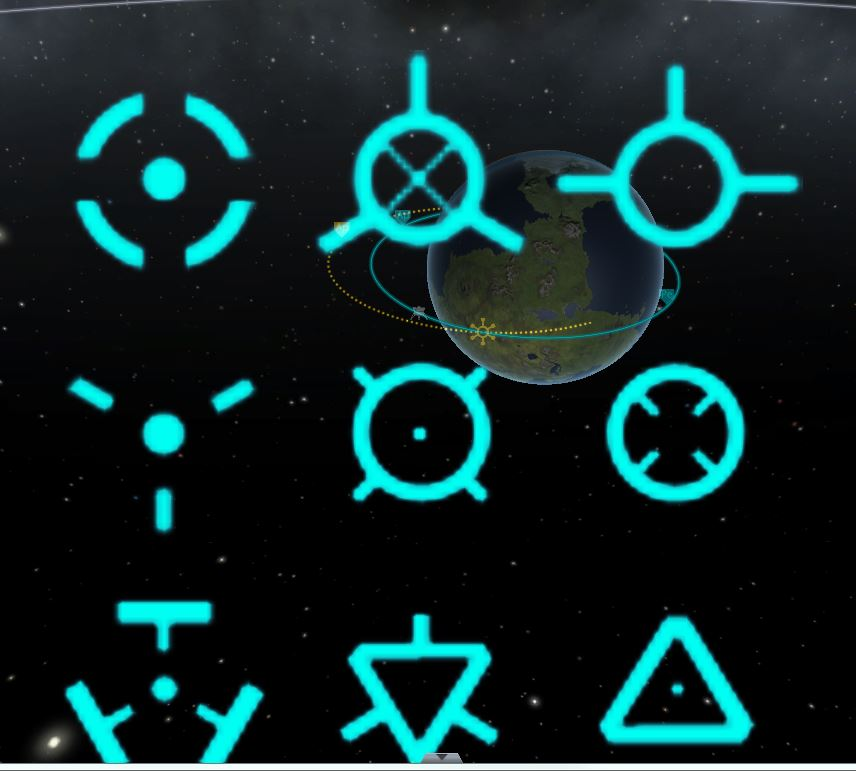
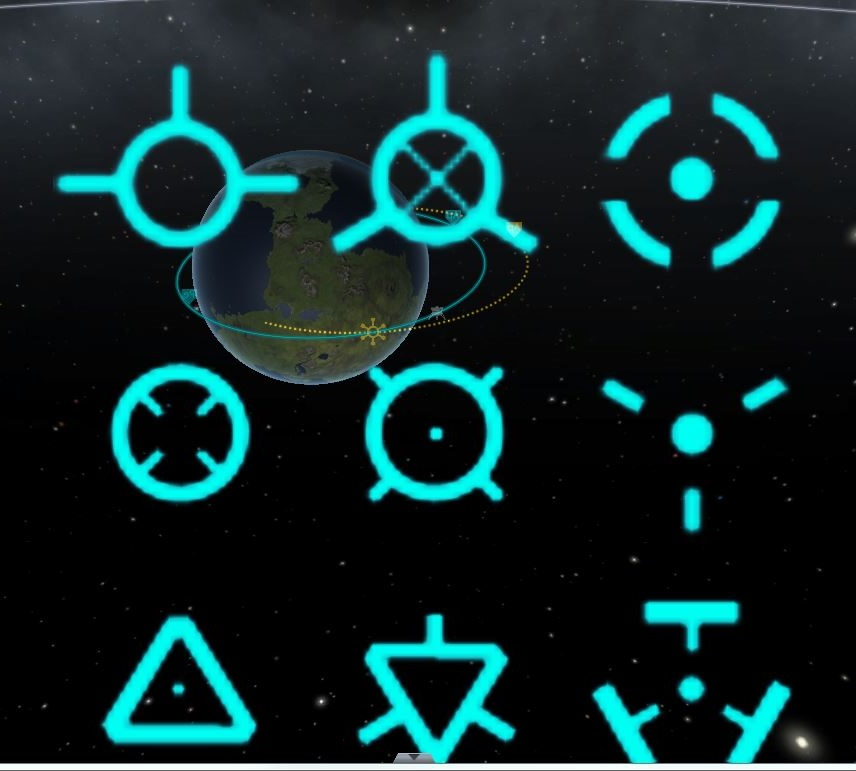
Maneuver ghost implemented

diff --git a/EnhancedNavBall/EnhancedNavBallBehaviour.cs b/EnhancedNavBall/EnhancedNavBallBehaviour.cs
@@ -20,9 +20,10 @@ public class EnhancedNavBallBehaviour : MonoBehaviour
     private GameObject _radialMinus;
     private GameObject _radialPlus;
     private GameObject _antiManeuverNode;
-    private GameObject _maneuverGhost;
-    
+    private GameObject _ghostManeuver;
+
     private static readonly Color _radialColour = new Color(0, 1, 0.958f);
+    private static readonly Color _maneuverColour = new Color(0, 0.1137f, 1, 0.5f);
     private static readonly Color _normalColour = new Color(0.930f, 0, 1);
 
     private CalculationStore _calculationStore;
@@ -66,7 +67,8 @@ public class EnhancedNavBallBehaviour : MonoBehaviour
     {
         GameObject simplePlane = Utilities.CreateSimplePlane("Test Plane", 0.5f);
 
-        SetupObjectPosition(simplePlane);
+        SetupObjectPosition(simplePlane,
+            _vectorsPivotTransform);
         simplePlane.transform.localPosition = new Vector3(0, 0.25f, 0);
 
         simplePlane.renderer.sharedMaterial = new Material(_maneuverGizmoTexture);
@@ -111,9 +113,15 @@ public class EnhancedNavBallBehaviour : MonoBehaviour
         _ghostPivotTransform.parent = _vectorsPivotTransform;
         _ghostPivotTransform.localPosition = new Vector3(0, 0, 0.01f);
 
-        _maneuverGhost = Utilities.CreateSimplePlane(
+        _ghostManeuver = Utilities.CreateSimplePlane(
             "maneuverGhost",
             _vectorSize);
+        
+        SetupObject(
+            _ghostManeuver,
+            new Vector2(_graphicOffset * 2, 0f),
+            _maneuverColour,
+            _ghostPivotTransform);
     }
 
     private void CreateManueverPlane()
@@ -125,7 +133,8 @@ public class EnhancedNavBallBehaviour : MonoBehaviour
         SetupObject(
             _antiManeuverNode,
             new Vector2(_graphicOffset, _graphicOffset * 2),
-            _radialColour);
+            _radialColour,
+            _vectorsPivotTransform);
     }
 
     private void BuildEnhancedNavBall()
@@ -154,30 +163,37 @@ public class EnhancedNavBallBehaviour : MonoBehaviour
         SetupObject(
             _normalPlus,
             new Vector2(0.0f, 0.0f),
-            _normalColour);
+            _normalColour,
+            _vectorsPivotTransform);
 
         SetupObject(
             _normalMinus,
             new Vector2(_graphicOffset, 0.0f),
-            _normalColour);
+            _normalColour,
+            _vectorsPivotTransform);
 
         SetupObject(
             _radialPlus,
             new Vector2(_graphicOffset, _graphicOffset),
-            _radialColour);
+            _radialColour,
+            _vectorsPivotTransform);
 
         SetupObject(
             _radialMinus,
             new Vector2(0.0f, _graphicOffset),
-            _radialColour);
+            _radialColour,
+            _vectorsPivotTransform);
     }
 
     private void SetupObject(
         GameObject planeObject,
         Vector2 textureOffset,
-        Color color)
+        Color color,
+        Transform parentTransform)
     {
-        SetupObjectPosition(planeObject);
+        SetupObjectPosition(
+            planeObject,
+            parentTransform);
 
         planeObject.renderer.sharedMaterial = new Material(_maneuverGizmoTexture);
         planeObject.renderer.sharedMaterial.mainTextureScale = _mainTextureScale;
@@ -185,10 +201,12 @@ public class EnhancedNavBallBehaviour : MonoBehaviour
         planeObject.renderer.sharedMaterial.color = color;
     }
 
-    private void SetupObjectPosition(GameObject planeObject)
+    private void SetupObjectPosition(
+        GameObject planeObject,
+        Transform parentTransform)
     {
         planeObject.layer = navBallLayer;
-        planeObject.transform.parent = _vectorsPivotTransform;
+        planeObject.transform.parent = parentTransform;
         planeObject.transform.localPosition = Vector3.zero;
         planeObject.transform.localRotation = Quaternion.Euler(90f, 180f, 0);
     }
@@ -207,15 +225,43 @@ public class EnhancedNavBallBehaviour : MonoBehaviour
         PerformCalculations(vessel);
         CalculateManeuver(vessel);
         HideBehindVectors();
+        UpdateGhostingVectors(vessel);
+    }
+
+    private void UpdateGhostingVectors(Vessel vessel)
+    {
+        if (vessel.patchedConicSolver.maneuverNodes.Count > 0)
+        {
+            _ghostManeuver.transform.localPosition = ProcessVectorForGhosting(_calculationStore.ManeuverPlus);
+            _ghostManeuver.SetActive(_calculationStore.ManeuverPlus.z <= 0.7d);
+        }
+        else
+        {
+            _ghostManeuver.SetActive(false);
+        }
+    }
+
+    private Vector3 ProcessVectorForGhosting(Vector3d vector)
+    {
+        Vector3 navballPoint = vector;
+        Vector3 ghostPoint = new Vector3(
+            navballPoint.x,
+            navballPoint.y,
+            0);
+
+        Quaternion ghostDirection = Quaternion.LookRotation(ghostPoint);
+
+        return ghostDirection * Vector3.forward * 0.08f;
     }
 
     private void CalculateManeuver(Vessel vessel)
     {
-        _calculationStore.RunManeuverCalculations(vessel);
+        Quaternion gymbal = _navBallBehaviour.attitudeGymbal;
+        _calculationStore.RunManeuverCalculations(vessel, gymbal);
 
         if (vessel.patchedConicSolver.maneuverNodes.Count > 0)
         {
-            _antiManeuverNode.transform.localPosition = _navBallBehaviour.attitudeGymbal * -_calculationStore.ManeuverPlus * _navBallProgradeMagnatude;
+            _antiManeuverNode.transform.localPosition = -_calculationStore.ManeuverPlus * _navBallProgradeMagnatude;
         }
         else
         {
@@ -250,12 +296,12 @@ public class EnhancedNavBallBehaviour : MonoBehaviour
 
     private void PerformCalculations(Vessel vessel)
     {
-        _calculationStore.RunOrbitCalculations(vessel);
+        Quaternion gymbal = _navBallBehaviour.attitudeGymbal;
+        _calculationStore.RunOrbitCalculations(vessel, gymbal);
         
         if (_navBallProgradeMagnatude == 0f)
             _navBallProgradeMagnatude = _navBallBehaviour.progradeVector.localPosition.magnitude;
         
-        Quaternion gymbal = _navBallBehaviour.attitudeGymbal;
 
         //switch (FlightUIController.speedDisplayMode)
         //{
@@ -273,11 +319,11 @@ public class EnhancedNavBallBehaviour : MonoBehaviour
         //}
 
         // Apply to nav ball
-        _radialPlus.transform.localPosition = gymbal * _calculationStore.RadialPlus * _navBallProgradeMagnatude;
-        _normalPlus.transform.localPosition = gymbal * _calculationStore.NormalPlus * _navBallProgradeMagnatude;
+        _radialPlus.transform.localPosition = _calculationStore.RadialPlus * _navBallProgradeMagnatude;
+        _normalPlus.transform.localPosition = _calculationStore.NormalPlus * _navBallProgradeMagnatude;
 
-        _radialMinus.transform.localPosition = gymbal * -_calculationStore.RadialPlus * _navBallProgradeMagnatude;
-        _normalMinus.transform.localPosition = gymbal * -_calculationStore.NormalPlus * _navBallProgradeMagnatude;
+        _radialMinus.transform.localPosition = -_calculationStore.RadialPlus * _navBallProgradeMagnatude;
+        _normalMinus.transform.localPosition = -_calculationStore.NormalPlus * _navBallProgradeMagnatude;
         
         //Utilities.DebugLog(LogLevel.Diagnostic,
         //    string.Format("MechJeb Calc: \n{0}\n{1}\n{2}\n{3}\n{4}\n{5}",

diff --git a/EnhancedNavBall/CalculationStore.cs b/EnhancedNavBall/CalculationStore.cs
@@ -1,26 +1,34 @@
-public class CalculationStore
+using UnityEngine;
+
+public class CalculationStore
 {
     public Vector3d RadialPlus;
     public Vector3d NormalPlus;
     public Vector3d ManeuverPlus = Vector3d.zero;
 
-    public void RunOrbitCalculations(Vessel vessel)
+    public void RunOrbitCalculations(
+        Vessel vessel,
+        Quaternion gymbal)
     {
         // Calculations thanks to Mechjeb
         Vector3d CoM = vessel.findWorldCenterOfMass();
         Vector3d up = (CoM - vessel.mainBody.position).normalized;
         Vector3d velocityVesselOrbit = vessel.orbit.GetVel();
         Vector3d velocityVesselOrbitUnit = velocityVesselOrbit.normalized;
-        RadialPlus = Vector3d.Exclude(velocityVesselOrbit, up).normalized;
-        NormalPlus = -Vector3d.Cross(RadialPlus, velocityVesselOrbitUnit);
+        Vector3d radialPlus = Vector3d.Exclude(velocityVesselOrbit, up).normalized;
+
+        RadialPlus = gymbal * radialPlus;
+        NormalPlus = gymbal * -Vector3d.Cross(radialPlus, velocityVesselOrbitUnit);
     }
 
-    public void RunManeuverCalculations(Vessel vessel)
+    public void RunManeuverCalculations(
+        Vessel vessel,
+        Quaternion gymbal)
     {
         if (vessel.patchedConicSolver.maneuverNodes.Count > 0)
         {
             Vector3d burnVector = vessel.patchedConicSolver.maneuverNodes[0].GetBurnVector(vessel.orbit);
-            ManeuverPlus = burnVector.normalized;
+            ManeuverPlus = gymbal * burnVector.normalized;
         }
     }
 }
